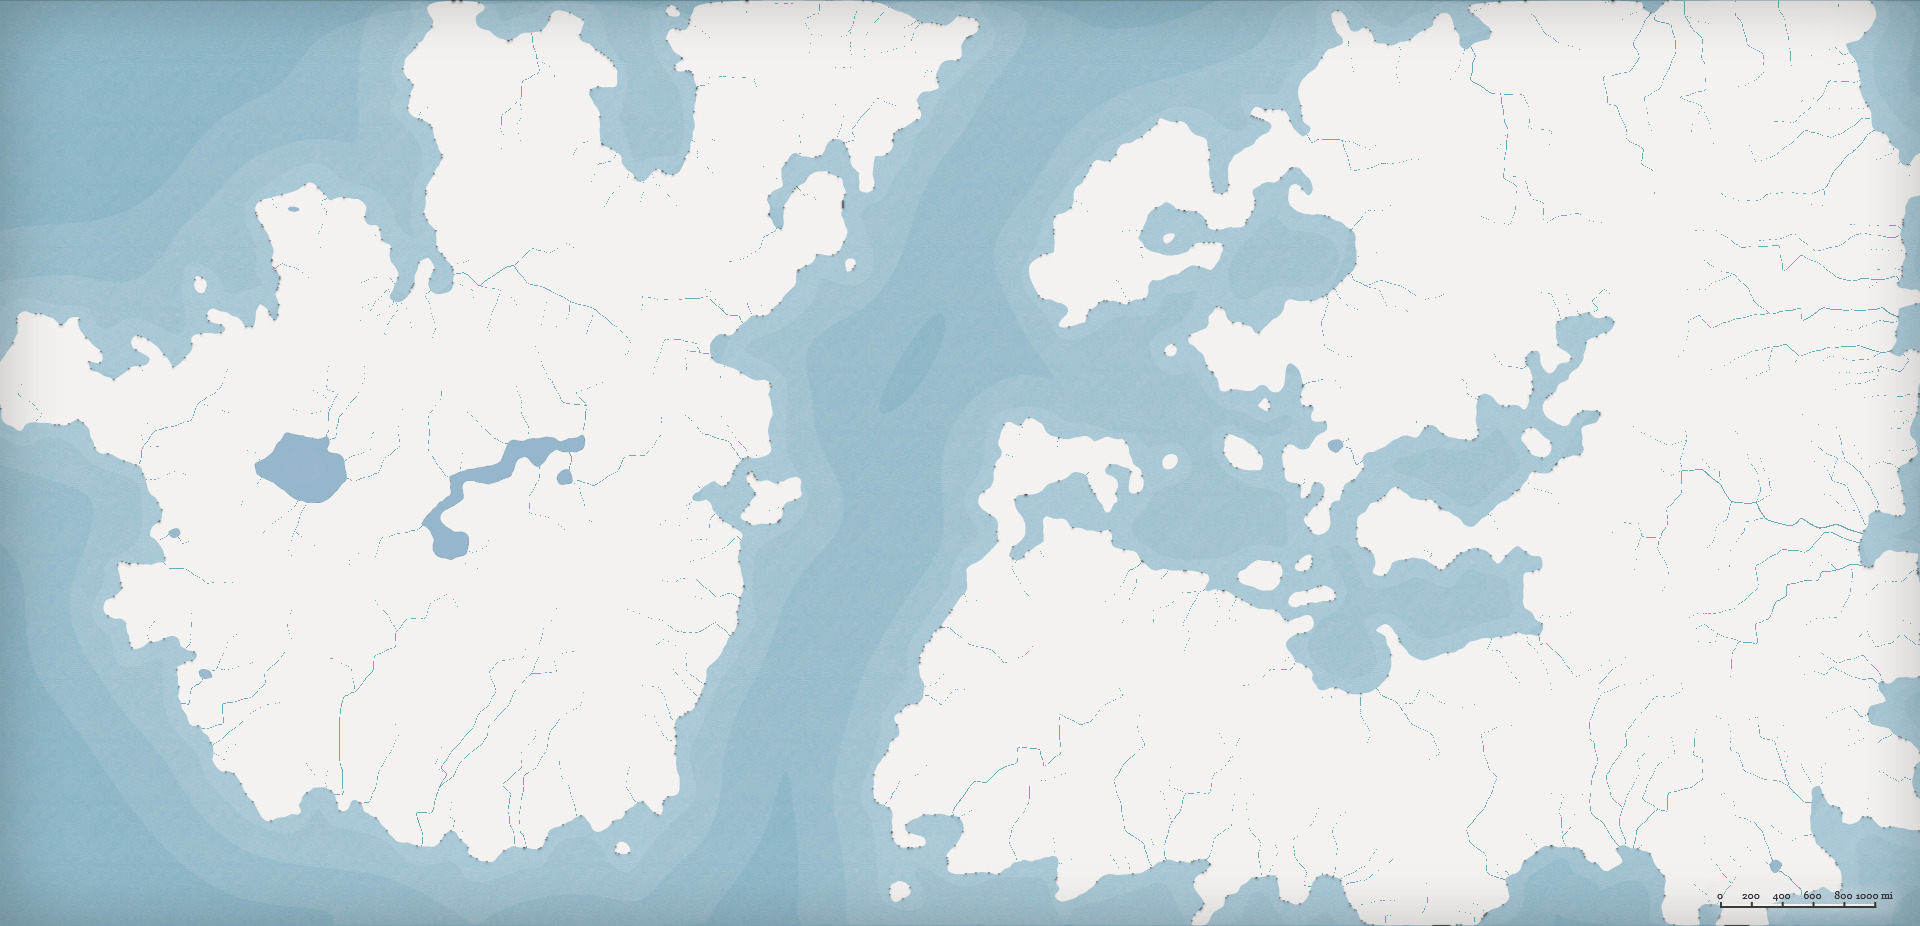
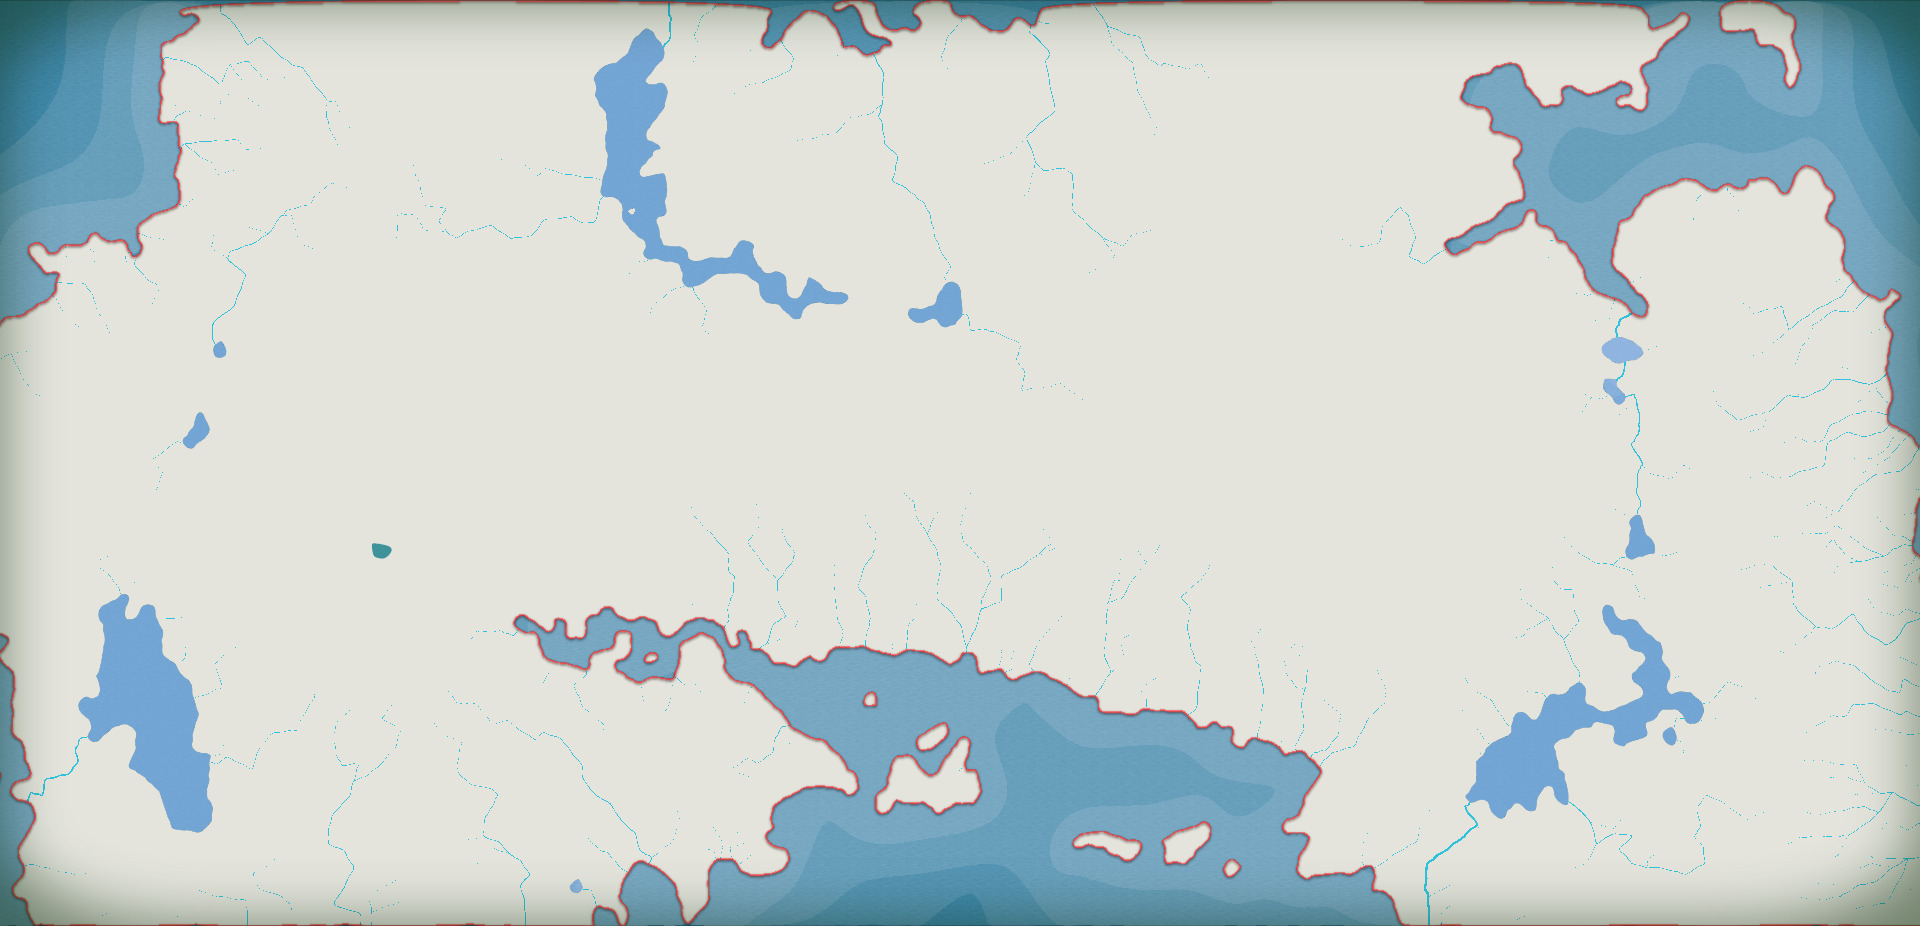
edited on world map

diff --git a/src/utils/continentClassifier.js b/src/utils/continentClassifier.js
@@ -1,46 +1,96 @@
 /**
  * Classifies a Wikipedia article into one of 12 world map continents
- * by checking its portal categories via the Wikipedia API.
+ * by matching its visible category names against keyword rules.
  *
- * Priority order matters — if an article matches multiple portals,
- * the first match in the list wins.
+ * Priority order matters — first match wins.
  */
 
 export const CONTINENTS = {
-  ARTS:        "The Gilded Expanse",
-  BIOGRAPHY:   "The Hall of Names",
-  GEOGRAPHY:   "The Known Lands",
-  HEALTH:      "The Healer's Isle",
-  HISTORY:     "The Ancient Reaches",
-  MATHEMATICS: "The Arcane Wastes",
-  NATURE:      "The Wilds",
-  PHILOSOPHY:  "The Sacred Grounds",
-  SOCIETY:     "The Grand Forum",
-  SPORTS:      "The Arena",
-  TECHNOLOGY:  "The Iron Kingdoms",
-  UNCHARTED:   "The Void",
+  ARTS:        "Realm One",
+  BIOGRAPHY:   "Realm Two",
+  GEOGRAPHY:   "Realm Three",
+  HEALTH:      "Realm Four",
+  HISTORY:     "Realm Five",
+  MATHEMATICS: "Realm Six",
+  NATURE:      "Realm Seven",
+  PHILOSOPHY:  "Realm Eight",
+  SOCIETY:     "Realm Nine",
+  SPORTS:      "Realm Ten",
+  TECHNOLOGY:  "Realm Eleven",
 };
 
-// Portal category keywords → continent, in priority order
-const PORTAL_RULES = [
-  { keywords: ["portal:biography", "portal:people"],                         continent: CONTINENTS.BIOGRAPHY },
-  { keywords: ["portal:history"],                                             continent: CONTINENTS.HISTORY },
-  { keywords: ["portal:geography", "portal:places"],                         continent: CONTINENTS.GEOGRAPHY },
-  { keywords: ["portal:mathematics", "portal:math"],                         continent: CONTINENTS.MATHEMATICS },
-  { keywords: ["portal:science", "portal:nature", "portal:biology",
-               "portal:ecology", "portal:environment", "portal:physics",
-               "portal:chemistry", "portal:astronomy"],                       continent: CONTINENTS.NATURE },
-  { keywords: ["portal:medicine", "portal:health", "portal:food"],           continent: CONTINENTS.HEALTH },
-  { keywords: ["portal:philosophy", "portal:religion", "portal:mythology"],  continent: CONTINENTS.PHILOSOPHY },
-  { keywords: ["portal:technology", "portal:computing", "portal:engineering",
-               "portal:internet"],                                             continent: CONTINENTS.TECHNOLOGY },
-  { keywords: ["portal:sports", "portal:games", "portal:recreation",
-               "portal:olympics"],                                             continent: CONTINENTS.SPORTS },
-  { keywords: ["portal:society", "portal:politics", "portal:law",
-               "portal:economics", "portal:education", "portal:culture"],    continent: CONTINENTS.SOCIETY },
-  { keywords: ["portal:arts", "portal:music", "portal:film", "portal:television",
-               "portal:literature", "portal:theatre", "portal:comics",
-               "portal:anime", "portal:architecture"],                        continent: CONTINENTS.ARTS },
+// Keyword patterns matched against lowercased category titles, in priority order
+const CATEGORY_RULES = [
+  {
+    continent: CONTINENTS.BIOGRAPHY,
+    keywords: [" births", " deaths", "people from", "politicians", "actors", "actresses",
+               "musicians from", "writers from", "authors from", "scientists from",
+               "mathematicians from", "businesspeople", "sportspeople", "nationals of"],
+  },
+  {
+    continent: CONTINENTS.HISTORY,
+    keywords: ["wars", "battle of", "empire", "dynasty", "ancient", "medieval",
+               "renaissance", "revolution", "history of", "historical",
+               "conflicts", "siege of", "rebellion", "crusade"],
+  },
+  {
+    continent: CONTINENTS.GEOGRAPHY,
+    keywords: ["national park", "populated places", "cities in", "towns in",
+               "villages in", "counties in", "states of", "provinces of",
+               "rivers of", "mountains of", "lakes of", "islands of",
+               "geography of", "regions of", "districts of"],
+  },
+  {
+    continent: CONTINENTS.MATHEMATICS,
+    keywords: ["mathematics", "mathematical", "algebra", "geometry", "calculus",
+               "theorem", "number theory", "statistics", "topology", "combinatorics"],
+  },
+  {
+    continent: CONTINENTS.NATURE,
+    keywords: ["biology", "chemistry", "physics", "astronomy", "ecology",
+               "animals", "plants", "species", "genus", "family (natural",
+               "fauna", "flora", "geology", "meteorology", "zoology", "botany",
+               "fungi", "bacteria", "dinosaur", "fossil"],
+  },
+  {
+    continent: CONTINENTS.HEALTH,
+    keywords: ["medicine", "medical", "disease", "syndrome", "disorder",
+               "health", "hospital", "surgery", "drugs", "pharmacology",
+               "nutrition", "food and drink", "cuisine"],
+  },
+  {
+    continent: CONTINENTS.PHILOSOPHY,
+    keywords: ["philosophy", "philosophical", "religion", "religious", "theology",
+               "mythology", "church", "faith", "spirituality", "buddhism",
+               "christianity", "islam", "hinduism", "judaism"],
+  },
+  {
+    continent: CONTINENTS.TECHNOLOGY,
+    keywords: ["technology", "computing", "software", "hardware", "internet",
+               "engineering", "electronics", "telecommunications", "robotics",
+               "programming", "artificial intelligence", "video game"],
+  },
+  {
+    continent: CONTINENTS.SPORTS,
+    keywords: ["sport", "football", "basketball", "baseball", "tennis",
+               "olympic", "soccer", "rugby", "golf", "racing", "swimming",
+               "athletics", "cricket", "hockey", "boxing", "wrestling",
+               "martial arts", "cycling"],
+  },
+  {
+    continent: CONTINENTS.SOCIETY,
+    keywords: ["politics", "political", "law", "legal", "economics", "economic",
+               "education", "educational", "culture", "cultural", "society",
+               "social", "government", "military units", "organizations"],
+  },
+  {
+    continent: CONTINENTS.ARTS,
+    keywords: ["music", "musical", "film", "television", "theatre", "theater",
+               "literature", "painting", "sculpture", "architecture", "comics",
+               "manga", "anime", "rock group", "rock band", "jazz", "pop music",
+               "classical music", "opera", "dance", "poetry", "novel",
+               "album", "song", "artist"],
+  },
 ];
 
 /**
@@ -49,7 +99,7 @@ const PORTAL_RULES = [
  */
 export async function classifyArticle(articleTitle) {
   try {
-    const url = `https://en.wikipedia.org/w/api.php?action=query&titles=${encodeURIComponent(articleTitle)}&prop=categories&cllimit=50&clshow=!hidden&format=json&origin=*`;
+    const url = `https://en.wikipedia.org/w/api.php?action=query&titles=${encodeURIComponent(articleTitle)}&prop=categories&cllimit=500&format=json&origin=*`;
     const res = await fetch(url);
     const data = await res.json();
 
@@ -57,8 +107,11 @@ export async function classifyArticle(articleTitle) {
     const page = Object.values(pages)[0];
     const categories = (page?.categories ?? []).map(c => c.title.toLowerCase());
 
-    for (const rule of PORTAL_RULES) {
+    console.log('[Classifier]', articleTitle, '→ categories:', categories);
+
+    for (const rule of CATEGORY_RULES) {
       if (rule.keywords.some(kw => categories.some(cat => cat.includes(kw)))) {
+        console.log('[Classifier]', articleTitle, '→', rule.continent);
         return rule.continent;
       }
     }
@@ -66,5 +119,14 @@ export async function classifyArticle(articleTitle) {
     console.warn("continentClassifier: failed to classify", articleTitle, e);
   }
 
-  return CONTINENTS.UNCHARTED;
+  // No category match — hash the title to a deterministic realm
+  const realms = Object.values(CONTINENTS);
+  let hash = 0x811c9dc5;
+  for (let i = 0; i < articleTitle.length; i++) {
+    hash ^= articleTitle.charCodeAt(i);
+    hash = Math.imul(hash, 0x01000193);
+  }
+  const continent = realms[(hash >>> 0) % realms.length];
+  console.log('[Classifier]', articleTitle, '→ (no match, hashed to)', continent);
+  return continent;
 }

diff --git a/src/components/WorldMapModal.vue b/src/components/WorldMapModal.vue
@@ -24,6 +24,18 @@
 
             <!-- Settlement dots overlay -->
             <svg class="wm-dots-svg" :viewBox="`0 0 ${mapW} ${mapH}`" xmlns="http://www.w3.org/2000/svg">
+              <!-- Continent labels -->
+              <g v-for="(pos, name) in LABEL_POSITIONS" :key="name" class="wm-label-group">
+                <text
+                  :x="pos.x * mapW / 2500"
+                  :y="pos.y * mapH / 2500"
+                  :font-size="labelFontSize"
+                  class="wm-continent-label"
+                  text-anchor="middle"
+                  dominant-baseline="middle"
+                >{{ name }}</text>
+              </g>
+
               <!-- Other players' settlements (blue) -->
               <g v-for="s in otherSettlements" :key="s.id" @click="selectDot(s)" @touchend.stop="selectDot(s)" class="wm-dot-group">
                 <circle :cx="s.x" :cy="s.y" :r="dotRadius * 4" class="wm-hit" />
@@ -56,7 +68,7 @@
         <div v-if="selected" class="wm-card">
           <button class="wm-card-close" @click="selected = null">✕</button>
           <template v-if="selected.type === 'settlement'">
-            <div class="wm-card-continent">{{ selected.continent ?? 'The Void' }}</div>
+            <div class="wm-card-continent">{{ selected.continent }}</div>
             <div class="wm-card-name">{{ selected.town_name }}</div>
             <div class="wm-card-article">{{ selected.wiki_title?.replaceAll('_', ' ') }}</div>
             <div class="wm-card-lord">Lord: {{ selected.lord }}</div>
@@ -91,7 +103,7 @@
 <script setup>
 import { ref, computed, onMounted } from 'vue';
 import { supabase } from '@/lib/supabase';
-const mapImageUrl = new URL('../assets/jpegworld.jpeg', import.meta.url).href;
+const mapImageUrl = new URL('../assets/jpegworld-new.JPG', import.meta.url).href;
 
 const props = defineProps({
   userId:             { type: String, default: null },
@@ -134,6 +146,7 @@ const canvasStyle = computed(() => ({
 }));
 
 const dotRadius = computed(() => Math.max(2, 5 / scale.value));
+const labelFontSize = computed(() => Math.max(8, 18 / scale.value));
 
 function getViewportSize() {
   const el = viewportEl.value;
@@ -228,19 +241,39 @@ function onTouchEnd() { dragging.value = false; lastTouchDist = null; }
 // ── Deterministic position from article title ────────────────────────────────
 
 // Continent bounding boxes within the 2500x2500 map space (rough placements)
+// Bounds in 2500×2500 design space, mapped to actual image via titleToPos scaling.
+// Placed to sit on landmass based on the jpegworld-new.JPG layout:
+//   - Ocean: top-left corner, top-right corner, far-right edge, bottom-center inlet
+//   - Large inland sea: left side mid-to-lower
+//   - Large lake: right side mid
 const CONTINENT_BOUNDS = {
-  "The Gilded Expanse":  { x: 200,  y: 200,  w: 400, h: 350 },
-  "The Hall of Names":   { x: 700,  y: 150,  w: 380, h: 320 },
-  "The Known Lands":     { x: 1200, y: 180,  w: 420, h: 380 },
-  "The Healer's Isle":   { x: 1750, y: 200,  w: 300, h: 280 },
-  "The Ancient Reaches": { x: 200,  y: 700,  w: 450, h: 380 },
-  "The Arcane Wastes":   { x: 750,  y: 650,  w: 360, h: 320 },
-  "The Wilds":           { x: 1250, y: 680,  w: 420, h: 380 },
-  "The Sacred Grounds":  { x: 1780, y: 700,  w: 340, h: 320 },
-  "The Grand Forum":     { x: 220,  y: 1300, w: 420, h: 380 },
-  "The Arena":           { x: 760,  y: 1280, w: 360, h: 340 },
-  "The Iron Kingdoms":   { x: 1260, y: 1300, w: 420, h: 380 },
-  "The Void":            { x: 1800, y: 1350, w: 350, h: 300 },
+  "Realm One":    { x: 300,  y: 100,  w: 480, h: 700 },
+  "Realm Two":    { x: 820,  y: 100,  w: 460, h: 680 },
+  "Realm Three":  { x: 1320, y: 100,  w: 500, h: 700 },
+  "Realm Four":   { x: 1860, y: 150,  w: 380, h: 620 },
+  "Realm Five":   { x: 300,  y: 900,  w: 520, h: 700 },
+  "Realm Six":    { x: 870,  y: 900,  w: 560, h: 700 },
+  "Realm Seven":  { x: 1480, y: 900,  w: 520, h: 700 },
+  "Realm Eight":  { x: 2050, y: 950,  w: 300, h: 600 },
+  "Realm Nine":   { x: 300,  y: 1700, w: 580, h: 600 },
+  "Realm Ten":    { x: 950,  y: 1720, w: 620, h: 580 },
+  "Realm Eleven": { x: 1620, y: 1720, w: 580, h: 560 },
+};
+
+// Label positions are independent of dot bounds so they can be freely staggered.
+// Coordinates in 2500×2500 design space, scaled to actual map by (x * mapW/2500).
+const LABEL_POSITIONS = {
+  "Realm One":    { x: 540,  y: 280  },
+  "Realm Two":    { x: 1050, y: 520  },
+  "Realm Three":  { x: 1570, y: 320  },
+  "Realm Four":   { x: 2050, y: 480  },
+  "Realm Five":   { x: 560,  y: 1050 },
+  "Realm Six":    { x: 1150, y: 1320 },
+  "Realm Seven":  { x: 1740, y: 1080 },
+  "Realm Eight":  { x: 2200, y: 1280 },
+  "Realm Nine":   { x: 590,  y: 1820 },
+  "Realm Ten":    { x: 1260, y: 2050 },
+  "Realm Eleven": { x: 1910, y: 1880 },
 };
 
 // Null-continent settlements get spread across the middle of the map
@@ -286,11 +319,21 @@ const selected = ref(null);
 
 const journeyChain = computed(() => props.fullChain ?? []);
 
+const REALM_NAMES = Object.keys(CONTINENT_BOUNDS);
+
+function resolveContinent(wikiTitle, continent) {
+  if (continent && CONTINENT_BOUNDS[continent]) return continent;
+  // Old settlement with no continent — hash the title to a deterministic realm
+  const h = hashTitle(wikiTitle ?? '');
+  return REALM_NAMES[h % REALM_NAMES.length];
+}
+
 const mappedSettlements = computed(() =>
   allSettlements.value.map(s => {
-    const pos = titleToPos(s.wiki_title, s.continent);
+    const continent = resolveContinent(s.wiki_title, s.continent);
+    const pos = titleToPos(s.wiki_title, continent);
     const lord = s.lord_history?.[s.lord_history.length - 1]?.playerName ?? s.lord_history?.[0]?.playerName ?? 'Unknown';
-    return { ...s, ...pos, lord };
+    return { ...s, continent, ...pos, lord };
   })
 );
 
@@ -455,6 +498,23 @@ onMounted(async () => {
   width: 100%;
   height: 100%;
   pointer-events: none;
+}
+
+.wm-label-group {
+  pointer-events: none;
+}
+
+.wm-continent-label {
+  fill: #3a2000;
+  font-family: "Georgia", "Times New Roman", serif;
+  font-weight: bold;
+  letter-spacing: 0.1em;
+  text-transform: uppercase;
+  opacity: 0.45;
+  paint-order: stroke;
+  stroke: rgba(240, 220, 180, 0.5);
+  stroke-width: 4px;
+  stroke-linejoin: round;
 }
 
 .wm-dot-group {
